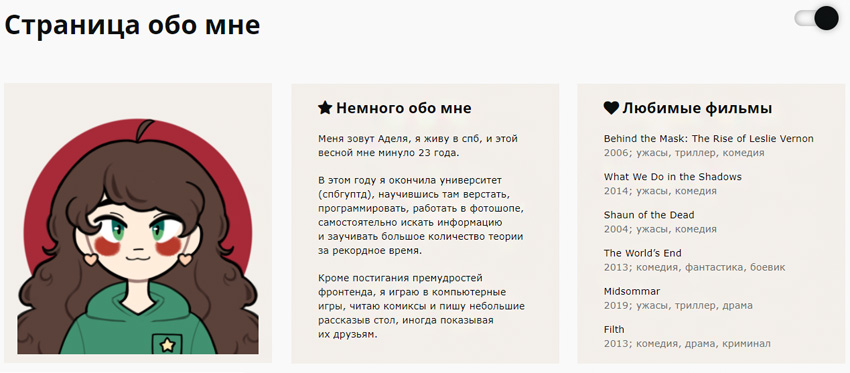
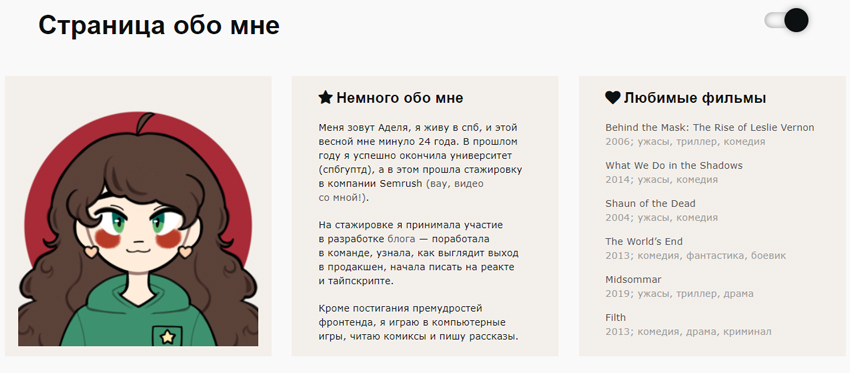
fix: new text

diff --git a/src/styles/style.scss b/src/styles/style.scss
@@ -1,5 +1,5 @@
 @import 'blocks.scss', 'fonts.scss', 'button.scss';
-*{
+* {
   margin: 0;
   padding: 0;
 } 
@@ -13,6 +13,20 @@ body {
   @include w-from($screen-lg) {
     max-width: 80vw;
     margin: 50px auto;
+  }
+}
+
+.link {
+  @include inc-click-area;
+  &:link, &:visited,
+  &:hover {
+    color: var(--color-link);
+    text-decoration: none;
+    list-style-type: none;
+  }
+  &:hover {
+    transition: .35s;
+    color: var(--color-hover);
   }
 }
 
@@ -97,21 +111,6 @@ body {
 
       @include w-range($screen-md, $screen-lg) {
         column-count: 2;
-      }
-
-      &-link {
-        @include inc-click-area;
-        &:link, &:visited,
-        &:hover,
-        &:after {
-          color: var(--color-text);
-          text-decoration: none;
-          list-style-type: none;
-        }
-        &:hover {
-          transition: .35s;
-          color: var(--color-hover);
-        }
       }
 
       &-genre {

diff --git a/src/styles/vars.scss b/src/styles/vars.scss
@@ -8,20 +8,22 @@ $screen-xl: 1440px;
   --main-color: #f3efea;
   --color-text: #0d1011;
   --color-hover: #a72a38;
-  --color-movie-genre: #717475;  
+  --color-movie-genre: #999999;  
   --button-hover: #1d2427;
   --image-filter: none;
   --button-bgcolor: #fff;
   --button-shadow: #999999;
-}
+  --color-link: #4d4d4d;
+}	
 
 :root[theme=dark] {
   --bgcolor: #222429;
   --main-color: #191a1d;
-  --color-text: #e1e2e2;
+  --color-text: #ffffff;
   --button-hover: #cdcecf;
   --color-hover: #ffeddc;
   --image-filter: grayscale(.75);
+  --color-link: rgb(211, 187, 187);
 }
 
 $font-title: bold 2.5em Open Sans, Arial, sans-serif;
